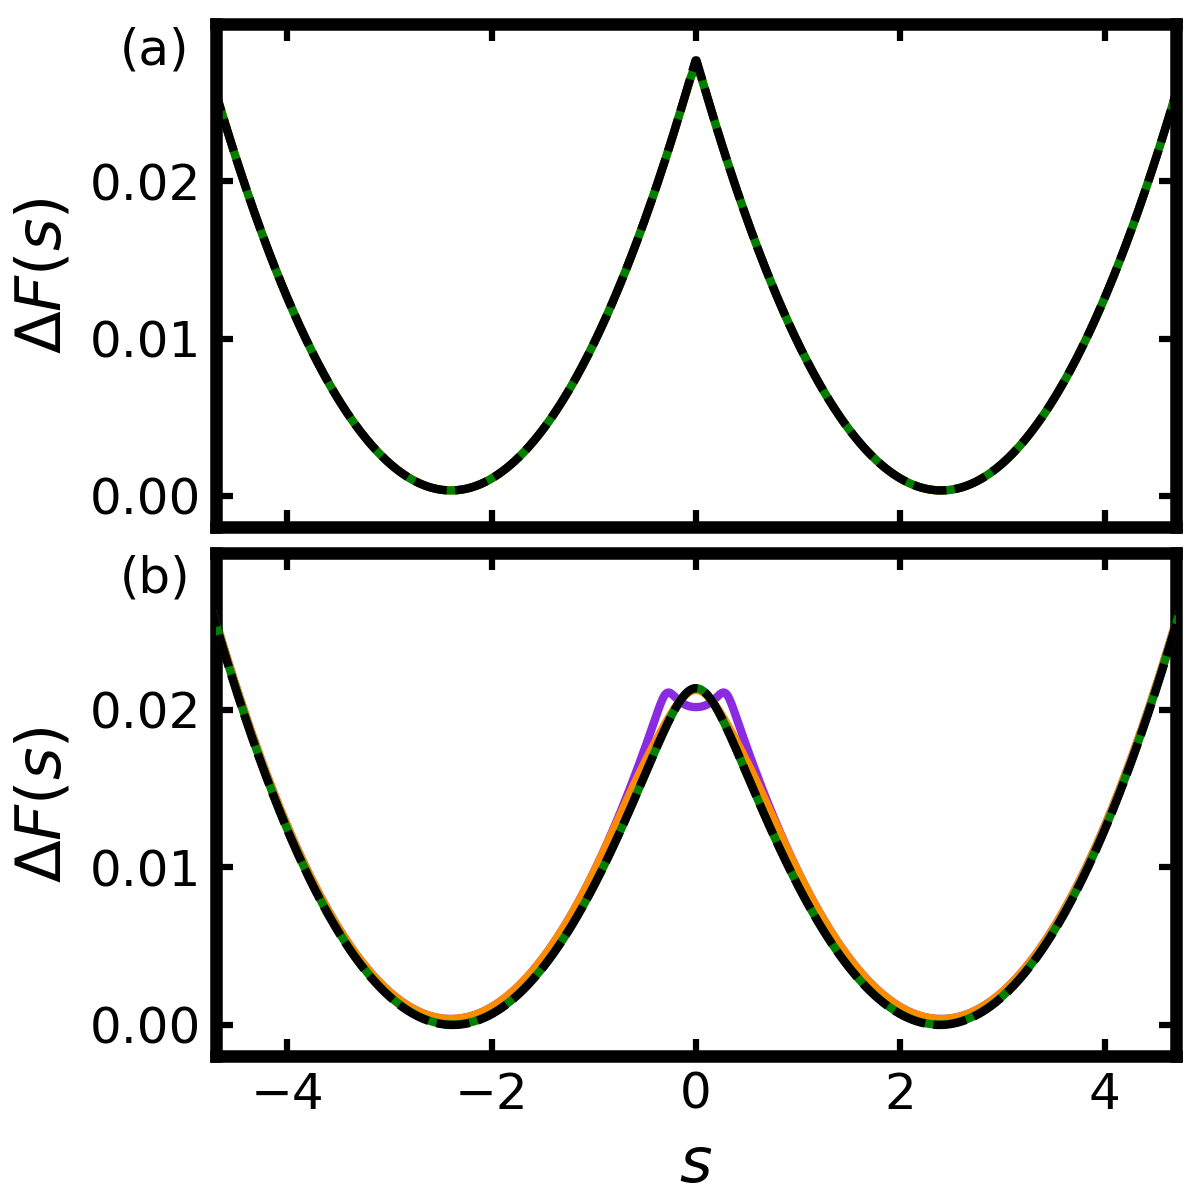
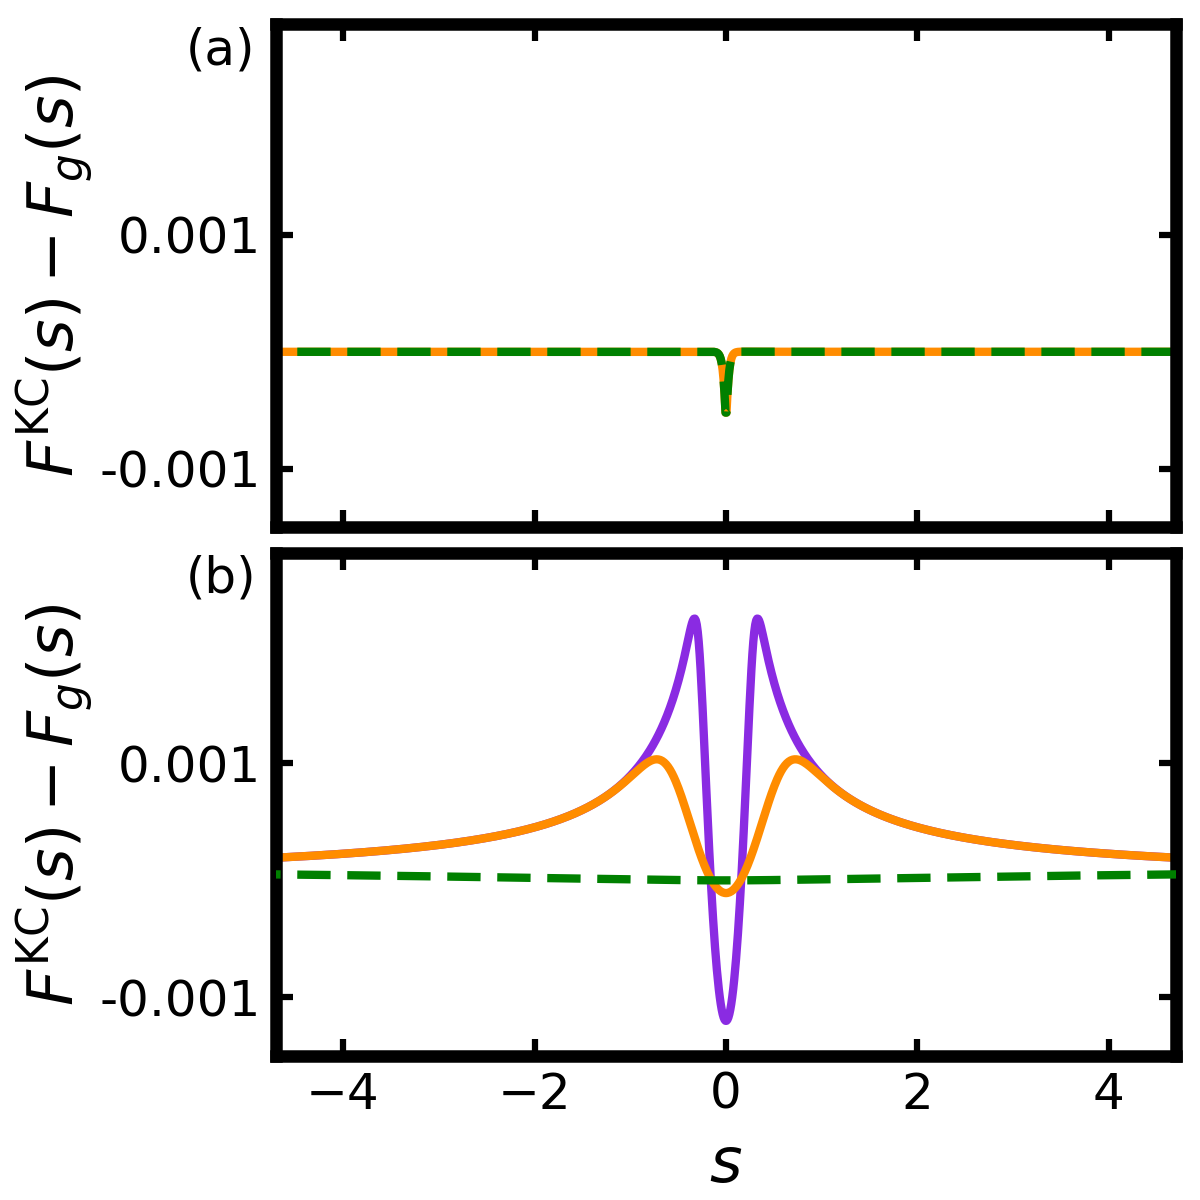
final commit before setting d=0.5

diff --git a/5_kcrpmd_reptraj.py b/5_kcrpmd_reptraj.py
@@ -1,0 +1,100 @@
+import sys
+import os
+import h5py
+import numpy as np
+import argparse
+
+from liblibra_core import *
+import util.libutil as comn
+from libra_py import units
+import libra_py.dynamics.tsh.compute as tsh_dynamics
+
+# Add the parent directory to sys.path
+parent_dir = os.path.abspath(os.path.join(os.path.dirname(__file__), '../..'))
+sys.path.insert(0, parent_dir)
+
+from kcrpmd_utils.kcrpmdmodel import kcrpmd_system_bath
+
+parser = argparse.ArgumentParser()
+parser.add_argument('--itraj', default=1, type=int, help='transmission trajectory index')
+parser.add_argument('--istart', default=1000000, type=int, help='thermalization starting index')
+parser.add_argument('--iskip', default=23999, type=int, help='thermalization skipping index')
+parser.add_argument('--nsteps', default=50000, type=int)
+parser.add_argument('--dt', default=0.08268, type=float)
+args = parser.parse_args()
+
+pref_pt1 = F"_reptraj_pt1"
+pref_pt2 = F"_reptraj_pt2"
+
+# check current directory name
+current_dir = os.path.basename(os.getcwd())
+if current_dir.startswith("libra_data"):
+    pass
+else:
+    print("not in correct directory, directory should be libra_data")
+    exit()
+
+# ======= READ IN KC-RPMD RECIPE, MODEL, AND INITIAL CONDITIONS =======
+
+with open("../_control_params_dynamics.txt") as f:
+    control_params = eval(f.read())
+
+with open("../_model_params.txt") as f:
+    model_params = eval(f.read())
+
+model_params.update({"hw": 0})
+control_params.update({"nsteps": args.nsteps})
+control_params.update({"dt": args.dt})
+
+# ======= INITIALIZE TRANSMISSION TRAJECTORIES FROM THERMALIZATION CALCULATION =======
+with h5py.File("mem_data.hdf", 'r') as f:
+    q = list(f["q/data"][args.itraj * args.iskip + args.istart, 0, :])
+    if "use_kcrpmd" in control_params:
+        y = f["y_aux_var/data"][args.itraj * args.iskip + args.istart, 0]
+
+beta = units.hartree / (units.boltzmann * control_params["Temperature"])
+mass = [model_params["ms"]] + model_params["Mj"] + [model_params["mq"]]
+p_pt1 = [np.random.normal(scale = np.sqrt(mass[i] / beta)) for i in range(len(mass))]
+p_pt2 = [-p for p in p_pt1]
+
+init_nucl_pt1 = {"q":q, "p":p_pt1, "mass":mass, "force_constant":[0] * len(q), "init_type":0,
+                 "ntraj":control_params["ntraj"], "ndof": len(q)}
+
+init_nucl_pt2 = {"q":q, "p":p_pt2, "mass":mass, "force_constant":[0] * len(q), "init_type":0,
+                 "ntraj":control_params["ntraj"], "ndof": len(q)}
+
+if "use_kcrpmd" in control_params:
+    my = control_params["kcrpmd_my"]
+    if my < 10.:
+        my = 10.
+    control_params["kcrpmd_gamma"] = np.sqrt(control_params["kcrpmd_my"] / my) * control_params["kcrpmd_gamma"]
+    py_pt1 = np.random.normal(scale = np.sqrt(my / beta))
+    py_pt2 = -py_pt1
+
+    init_elec_pt1 = {"init_type":0, "nstates":control_params["nstates"], "istate":0,
+                     "rep":1, "ntraj":control_params["ntraj"],
+                     "ndia":control_params["nstates"], "nadi":control_params["nstates"],
+                     "y_aux_var":[y], "p_aux_var":[py_pt1], "m_aux_var":[my]}
+
+    init_elec_pt2 = {"init_type":0, "nstates":control_params["nstates"], "istate":0,
+                     "rep":1, "ntraj":control_params["ntraj"],
+                     "ndia":control_params["nstates"], "nadi":control_params["nstates"],
+                     "y_aux_var":[y], "p_aux_var":[py_pt2], "m_aux_var":[my]}
+else:
+    init_elec_pt1 = {"init_type":0, "nstates":control_params["nstates"], "istate":0,
+                     "rep":1, "ntraj":control_params["ntraj"],
+                     "ndia":control_params["nstates"], "nadi":control_params["nstates"]}
+
+    init_elec_pt2 = {"init_type":0, "nstates":control_params["nstates"], "istate":0,
+                     "rep":1, "ntraj":control_params["ntraj"],
+                     "ndia":control_params["nstates"], "nadi":control_params["nstates"]}
+
+rnd_pt1 = Random()
+rnd_pt2 = Random()
+
+control_params.update({ "prefix":pref_pt1, "prefix2":pref_pt1 })
+res_pt1 = tsh_dynamics.generic_recipe(control_params, kcrpmd_system_bath, model_params, init_elec_pt1, init_nucl_pt1, rnd_pt1)
+
+control_params.update({ "prefix":pref_pt2, "prefix2":pref_pt2 })
+res_pt2 = tsh_dynamics.generic_recipe(control_params, kcrpmd_system_bath, model_params, init_elec_pt2, init_nucl_pt2, rnd_pt2)
+

diff --git a/kcrpmd_figures/fig3.py b/kcrpmd_figures/fig3.py
@@ -17,6 +17,7 @@ set_style()
 
 T = 300.0
 beta = units.hartree / (units.boltzmann * T)
+print(beta)
 a = 0.1
 b = 1000.0
 c = 0.5
@@ -72,24 +73,27 @@ oldFsa1_high = oldkcrpmda1_tst_high.Fs(s_ar)
 fig, (ax1, ax2) = plt.subplots(nrows=2, ncols=1, figsize=(4.0, 4.0), sharex=True, sharey=False, dpi=300)
 ax1.text(-0.1, 0.92, "(a)", transform=ax1.transAxes, fontsize=12)
 ax2.text(-0.1, 0.92, "(b)", transform=ax2.transAxes, fontsize=12)
-ax1.plot(s_ar, Fgs_low, color='k', label='adiabatic', dashes=[4, 1], zorder=3)
-ax1.plot(s_ar, newFs_low, color='g', label='new', zorder=2)
-ax1.plot(s_ar, oldFs_low, color='darkorange', label='ori', zorder=1)
-ax2.plot(s_ar, Fgs_high, color='k', label='adiabatic', dashes=[4, 1], zorder=4)
-ax2.plot(s_ar, newFs_high, color='g', label='new', zorder=3)
-ax2.plot(s_ar, oldFs_high, color='darkorange', label='ori', zorder=2)
-ax2.plot(s_ar, oldFsa1_high, color='blueviolet', label='ori*', zorder=1)
+#ax1.plot(s_ar, Fgs_low, color='k', label='adiabatic', dashes=[4, 1], zorder=3)
+ax1.plot(s_ar, newFs_low - Fgs_low, color='g', label='new', dashes=[4, 2], zorder=2)
+ax1.plot(s_ar, oldFs_low - Fgs_low, color='darkorange', label='ori', zorder=1)
+#ax2.plot(s_ar, Fgs_high, color='k', label='adiabatic', dashes=[4, 1], zorder=4)
+ax2.plot(s_ar, newFs_high - Fgs_high, color='g', label='new', dashes=[4, 2], zorder=3)
+ax2.plot(s_ar, oldFs_high - Fgs_high, color='darkorange', label='ori', zorder=2)
+ax2.plot(s_ar, oldFsa1_high - Fgs_high, color='blueviolet', label='ori*', zorder=1)
 ax1.set_xlim(-4.7,4.7)
-ax1.set_ylim(-0.002,0.03)
-ax2.set_ylim(-0.002,0.03)
-ax1.set_yticks([0.0, 0.01, 0.02])
+ax1.set_ylim(-0.0015,0.0028) #ax1.set_ylim(-0.002,0.03)
+ax2.set_ylim(-0.0015,0.0028) #ax2.set_ylim(-0.002,0.03)
+ax1.set_yticks([-0.001, 0.001]) #ax1.set_yticks([0.0, 0.01, 0.02])
 ax2.set_xticks([-4, -2, 0, 2, 4])
-ax2.set_yticks([0.0, 0.01, 0.02])
+ax2.set_yticks([-0.001, 0.001]) #ax2.set_yticks([0.0, 0.01, 0.02])
+ax1.set_yticklabels([-0.001, 0.001]) #ax1.set_yticklabels(["$-10^{-3}$", " ", "$10^{-3}$"])
+ax2.set_yticklabels([-0.001, 0.001]) #ax2.set_yticklabels(["$-10^{-3}$", " ", "$10^{-3}$"])
 ax2.set_xlabel(r"$s$")
-ax1.set_ylabel(r"$\Delta F(s)$")
-ax2.set_ylabel(r"$\Delta F(s)$")
+ax1.set_ylabel(r"$F^{\mathrm{KC}}(s)-F_{g}(s)$", labelpad=1)
+ax2.set_ylabel(r"$F^{\mathrm{KC}}(s)-F_{g}(s)$", labelpad=1)
 ax1.set_title("")
 
-plt.subplots_adjust(hspace=0.05, left=0.18, right=0.98, top=0.98, bottom=0.12)
+plt.subplots_adjust(hspace=0.05, left=0.23, right=0.98, top=0.98, bottom=0.12)
+#plt.subplots_adjust(hspace=0.05, left=0.18, right=0.98, top=0.98, bottom=0.12)
 plt.savefig('fig3.png')
 

diff --git a/kcrpmd_figures/fig7.py b/kcrpmd_figures/fig7.py
@@ -1,0 +1,81 @@
+import sys
+import os
+import h5py
+import matplotlib.pyplot as plt   # plots
+import numpy as np
+
+from liblibra_core import *
+from libra_py import units
+
+from plot_utils import set_style, add_hbar, add_abar
+
+parent_dir = os.path.abspath(os.path.join(os.path.dirname(__file__), '..'))
+sys.path.insert(0, parent_dir)
+
+set_style()
+
+
+#_sys_3_method_3_fix_s_leps_-7.60e-03_hw_1
+#_sys_3_method_3_fix_y_leps_-7.60e-03_hw_-1
+
+with h5py.File("../_sys_3_method_3_fix_s_leps_-7.60e-03_hw_1/libra_data/_reptraj_pt1/mem_data.hdf", 'r') as f:
+    R_fix_s_pt1 = f["q/data"][:, 0, :]
+    y_fix_s_pt1 = f["y_aux_var/data"][:, 0]
+
+with h5py.File("../_sys_3_method_3_fix_s_leps_-7.60e-03_hw_1/libra_data/_reptraj_pt2/mem_data.hdf", 'r') as f:
+    R_fix_s_pt2 = f["q/data"][:, 0, :]
+    y_fix_s_pt2 = f["y_aux_var/data"][:, 0]
+
+with h5py.File("../_sys_3_method_3_fix_y_leps_-7.60e-03_hw_-1/libra_data/_reptraj_pt1/mem_data.hdf", 'r') as f:
+    R_fix_y_pt1 = f["q/data"][:, 0, :]
+    y_fix_y_pt1 = f["y_aux_var/data"][:, 0]
+
+with h5py.File("../_sys_3_method_3_fix_y_leps_-7.60e-03_hw_-1/libra_data/_reptraj_pt2/mem_data.hdf", 'r') as f:
+    R_fix_y_pt2 = f["q/data"][:, 0, :]
+    y_fix_y_pt2 = f["y_aux_var/data"][:, 0]
+
+R_fix_s_pt2 = np.flip(R_fix_s_pt2, axis=0)
+R_fix_y_pt2 = np.flip(R_fix_y_pt2, axis=0)
+
+R_fix_s = np.concatenate((R_fix_s_pt2, R_fix_s_pt1), axis=0)
+R_fix_y = np.concatenate((R_fix_y_pt2, R_fix_y_pt1), axis=0)
+
+s_fix_s = R_fix_s[:,0]
+q_fix_s = R_fix_s[:,-1]
+s_fix_y = R_fix_y[:,0]
+q_fix_y = R_fix_y[:,-1]
+print("-------")
+print(s_fix_s)
+print("-------")
+print(q_fix_s)
+print("-------")
+print(s_fix_y)
+print("-------")
+print(q_fix_y)
+
+
+exit()
+print("-------")
+print(R_fix_y.shape)
+exit()
+print(np.flip(R_fix_y_pt2, axis=1))
+print(R_fix_y_pt1.shape)
+print(R_fix_y_pt2.shape)
+
+
+exit()
+
+
+fig, ax = plt.subplots(dpi=200)
+#ax.set_xlim(-2.1,1.1)
+#ax.set_ylim(-21.0,-9.0)
+#ax.set_xticks([-2, -1, 0, 1])
+#ax.set_yticks([-20, -18, -16, -14, -12, -10])
+#ax.set_xlabel(r"log(β$K_0$)", fontsize = 15)
+#ax.set_ylabel(r"log($k_{\mathrm{ET}}$)", fontsize = 15)
+ax.set_title("")
+#ax.legend(ncol=2, fontsize=10, loc='upper left', handletextpad=0.2,  columnspacing=0.9)
+
+#plt.subplots_adjust(left=0.18, right=0.98, top=0.98, bottom=0.17)
+plt.savefig('fig7.png')
+

diff --git a/kcrpmd_figures/test.py b/kcrpmd_figures/test.py
@@ -1,0 +1,6 @@
+for i in range(5):
+    print(i)
+
+print('--------------')
+for i in range(5,10):
+    print(i)
